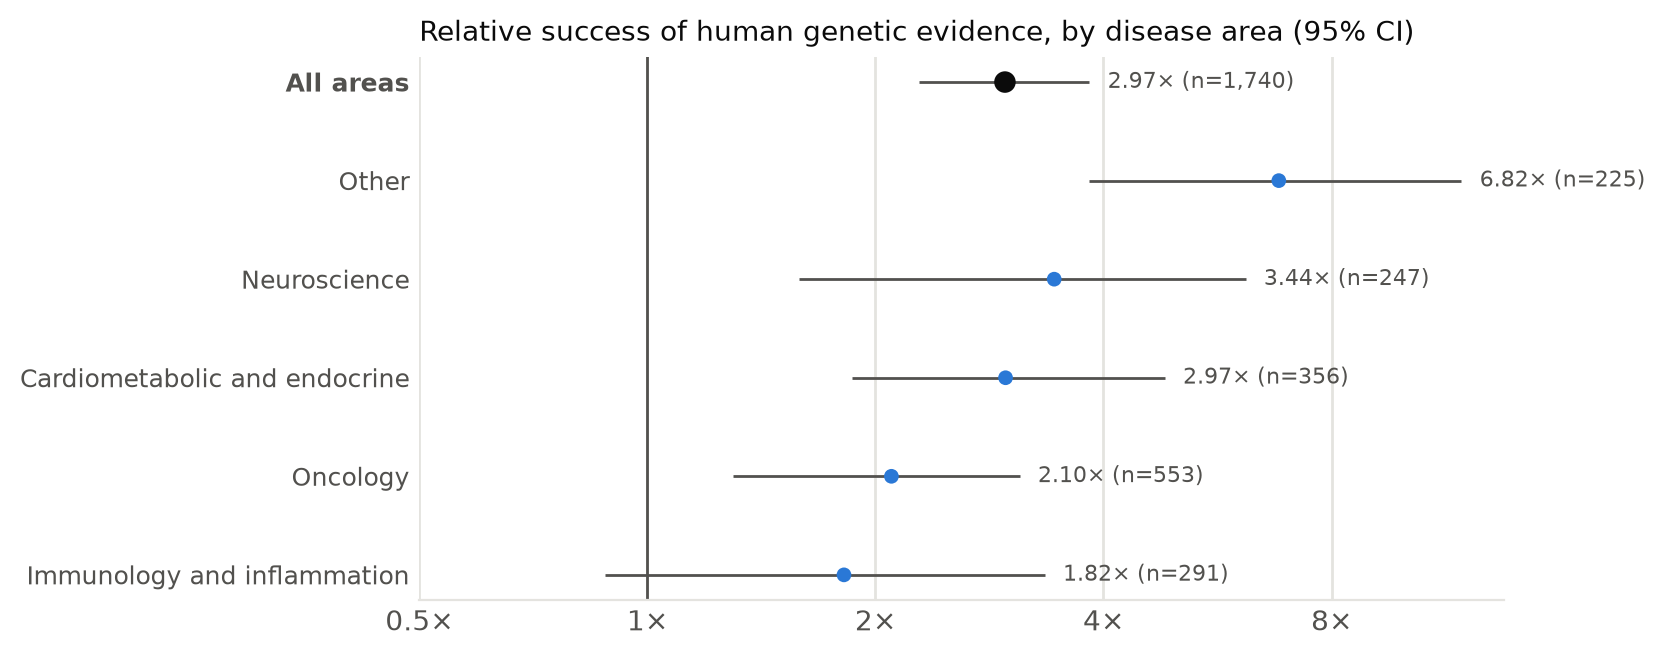
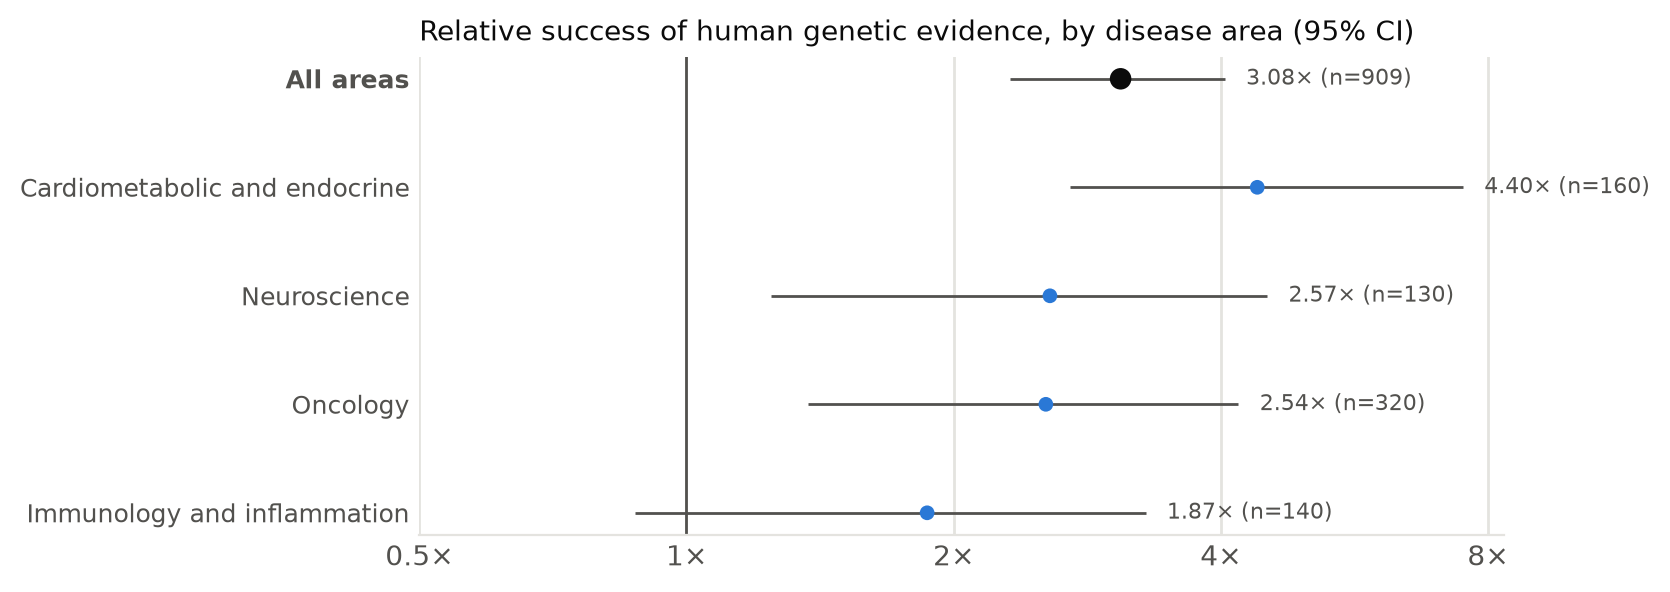
Rerun the disease-area breakdown on 2008-2019; publish
#68's breakdown now runs on the report window: its Phase 2 interaction model
uses the shared period bins, and its test's synthetic entries fall in 2008-2019.
On the larger cohort genetics' effect no longer differs between area groups
(p = 0.52); the prose says so, and the per-line table moves to the Appendix
detail tab beside the other tables behind figures.

diff --git a/tests/test_area_breakdown.py b/tests/test_area_breakdown.py
@@ -16,7 +16,7 @@ def synthetic_rows(seed: int = 0) -> pd.DataFrame:
             for phase in (1, 2, 3):
                 p = min(0.9, 0.2 * (effect if genetic and phase == 2 else 1.0)) if phase == 2 else 0.6
                 rows.append({"program_id": f"{area}-{i}", "phase": phase, "target": target, "bio_area": area,
-                             "modality": "small_molecule", "novel": int(i % 2), "entry_year": 2015 + i % 10,
+                             "modality": "small_molecule", "novel": int(i % 2), "entry_year": 2008 + i % 12,
                              "event": "advanced" if rng.random() < p else "suspended",
                              **{f: 0.0 for f in AREA_LINES}, "genetic_any": float(genetic)})
     return pd.DataFrame(rows)

diff --git a/report/narrative/section2_area.md b/report/narrative/section2_area.md
@@ -1,3 +1,3 @@
-Human genetic evidence predicts approval in every group of disease areas where it can be measured, but not equally: whether its effect at Phase 2 differs between groups gives p = {{section2.area.tests.genetic_any.p|x2}}. It is strongest in the smaller areas pooled as "other" (ophthalmology, infectious disease, urology and the diseases outside the named areas, mostly kidney, skin and rare hereditary disorders), where programs with it reached approval {{section2.area.rs.other_genetic_any.rs|x2}} times as often ({{section2.area.rs.other_genetic_any.loa_with|pct}} against {{section2.area.rs.other_genetic_any.loa_without|pct}}), and in neuroscience ({{section2.area.rs.neuroscience_genetic_any.rs|x2}}, carried by rare-variant evidence at {{section2.area.rs.neuroscience_genetic_rare.rs|x2}}). It is about threefold in cardiometabolic and endocrine diseases ({{section2.area.rs.cardiometabolic_genetic_any.rs|x2}}), twofold in oncology ({{section2.area.rs.oncology_genetic_any.rs|x2}}), and weakest in immunology and inflammation ({{section2.area.rs.immunology_genetic_any.rs|x2}}, {{section2.area.rs.immunology_genetic_any.rs_lo|x2}}–{{section2.area.rs.immunology_genetic_any.rs_hi|x2}}), where most of the evidence is GWAS. Hematology has too few programs with genetic evidence ({{section2.area.rs.hematology_genetic_any.n_with|int}}) to estimate.
+Human genetic evidence predicts approval in every area group with enough programs to measure it, and its effect does not differ measurably between them (p = {{section2.area.tests.genetic_any.p|x2}} for the difference at Phase 2). It is largest in cardiometabolic and endocrine diseases ({{section2.area.rs.cardiometabolic_genetic_any.rs|x2}}×, {{section2.area.rs.cardiometabolic_genetic_any.loa_with|pct0}} against {{section2.area.rs.cardiometabolic_genetic_any.loa_without|pct0}}), about 2.5-fold in oncology ({{section2.area.rs.oncology_genetic_any.rs|x2}}×) and neuroscience ({{section2.area.rs.neuroscience_genetic_any.rs|x2}}×), and least clear in immunology and inflammation ({{section2.area.rs.immunology_genetic_any.rs|x2}}×, {{section2.area.rs.immunology_genetic_any.rs_lo|x2}}–{{section2.area.rs.immunology_genetic_any.rs_hi|x2}}), where much of the evidence is GWAS. Hematology and the other areas have too few genetically supported programs to estimate. Leaving out any one group keeps the pooled relative success between {{section2.area.loo_min.rs|x2}} and {{section2.area.loo_max|x2}}.
 
-No other line's effect measurably differs between groups. In oncology, a somatic driver gives {{section2.area.rs.oncology_somatic.rs|x2}} ({{section2.area.rs.oncology_somatic.rs_lo|x2}}–{{section2.area.rs.oncology_somatic.rs_hi|x2}}). A potent drug gives {{section2.area.rs.other_assay_potent.rs|x2}} in the "other" group and {{section2.area.rs.neuroscience_assay_potent.rs|x2}} in neuroscience, but the groups do not differ beyond chance (p = {{section2.area.tests.assay_potent.p|x2}}). Leaving out any one group moves the pooled relative success of human genetics between {{section2.area.loo_min.rs|x2}} and {{section2.area.loo_max|x2}}; it is lowest without the "other" group, so no single area carries the pooled result.
+Somatic drivers give {{section2.area.rs.oncology_somatic.rs|x2}}× in oncology. Mouse models help in cardiometabolic disease ({{section2.area.rs.cardiometabolic_animal_model.rs|x2}}×) and immunology ({{section2.area.rs.immunology_animal_model.rs|x2}}×) but not in oncology ({{section2.area.rs.oncology_animal_model.rs|x2}}×). Expression in the disease is the one line whose effect differs between groups (p = {{section2.area.tests.rna_expression.p|x2}}), going the wrong way in immunology ({{section2.area.rs.immunology_rna_expression.rs|x2}}×); with three groups tested and a borderline p, this is a lead, not a finding.

diff --git a/REPORT.md b/REPORT.md
@@ -118,7 +118,12 @@ Held against the others, rare-variant and Mendelian evidence keeps an independen
 
 ### By disease area
 
-*Pending: whether each line predicts equally well in oncology, immunology, neuroscience, cardiometabolic disease, hematology and other areas, rerun on 2008–2019 entries with efficacy stops as a second outcome.*
+![Relative success of human genetic evidence by disease area](report/output/figures/genetics_by_area.png)
+
+Human genetic evidence predicts approval in every area group with enough programs to measure it, and its effect does not differ measurably between them (p = 0.52 for the difference at Phase 2). It is largest in cardiometabolic and endocrine diseases (4.40×, 26% against 6%), about 2.5-fold in oncology (2.54×) and neuroscience (2.57×), and least clear in immunology and inflammation (1.87×, 0.87–3.29), where much of the evidence is GWAS. Hematology and the other areas have too few genetically supported programs to estimate. Leaving out any one group keeps the pooled relative success between 2.90 and 3.33.
+
+Somatic drivers give 2.43× in oncology. Mouse models help in cardiometabolic disease (1.73×) and immunology (1.82×) but not in oncology (1.16×). Expression in the disease is the one line whose effect differs between groups (p = 0.05), going the wrong way in immunology (0.53×); with three groups tested and a borderline p, this is a lead, not a finding.
+
 
 ### The drug's own pharmacology
 
@@ -412,6 +417,8 @@ Each entity is matched to its ChEMBL molecules by the first of three routes that
 Sources that encode clinical outcomes or literature co-mention (ChEMBL clinical precedence, Europe PMC) are not used.
 
 **Relative success.** The 95% intervals resample primary-target sets (an entity's primary targets taken together), since programs on the same targets are not independent.
+
+**By disease area.** The 15 disease areas are pooled into six groups so that each holds enough programs with an evidence line: oncology; immunology and inflammation (autoimmune, allergy, respiratory, gastroenterology); neuroscience (neurology, psychiatry); cardiometabolic and endocrine (cardiovascular, metabolic, endocrine); hematology; and every other area. Relative success within a group is estimated as for all programs, and left blank where fewer than 100 programs in the group carry the line. Whether a line's effect differs between groups is a joint Wald test of its interaction with the group in a modified Poisson model of advancing from Phase 2, adjusted for modality, novelty and entry period, with standard errors clustered by primary-target set; groups with fewer than 20 resolved Phase 2 programs carrying the line are left out of that test.
 
 **Adjusted relative risks.** The joint table comes from one modified Poisson model per phase containing every evidence line together with disease area, modality, entity novelty and entry period, with standard errors clustered by primary-target set.
 

diff --git a/REPORT_APPENDIX.md b/REPORT_APPENDIX.md
@@ -105,6 +105,18 @@ Efficacy and exposure stops by what the evidence shows about target engagement, 
 | 0.61–0.89 (middle third) | 249 | 139 | 24.7% (15.4–34.0) |
 | above 0.89 (highest third) | 285 | 148 | 30.2% (23.1–38.1) |
 
+### Relative success by disease area
+
+| Evidence line | Oncology | Immunology and inflammation | Other | Neuroscience | Cardiometabolic and endocrine | Hematology | Differs between groups, Phase 2 (p) |
+| :---- | :---- | :---- | :---- | :---- | :---- | :---- | :---- |
+| Any human genetics | 2.54 (1.37–4.19), n=320 | 1.87 (0.87–3.29), n=140 | –, n=98 | 2.57 (1.25–4.51), n=130 | 4.40 (2.70–7.50), n=160 | –, n=61 | 0.52 (6 groups) |
+| GWAS | –, n=68 | –, n=81 | –, n=48 | –, n=28 | –, n=40 | –, n=0 | 0.92 (3 groups) |
+| Rare-variant or Mendelian genetics | 2.70 (1.43–4.41), n=274 | –, n=61 | –, n=60 | 2.57 (1.28–4.43), n=114 | 4.34 (2.60–7.51), n=140 | –, n=61 | 0.51 (6 groups) |
+| Somatic cancer driver | 2.43 (1.36–4.44), n=1,176 | –, n=3 | –, n=6 | –, n=1 | –, n=8 | –, n=2 | – |
+| Mouse model | 1.16 (0.61–1.91), n=456 | 1.82 (1.08–3.05), n=244 | 1.16 (0.49–2.25), n=198 | 1.71 (0.95–2.92), n=270 | 1.73 (1.04–2.85), n=433 | –, n=98 | 0.82 (6 groups) |
+| Expressed differently in the disease | 1.11 (0.63–1.84), n=739 | 0.53 (0.10–1.04), n=166 | –, n=35 | –, n=65 | –, n=8 | –, n=0 | 0.05 (3 groups) |
+| Potent at the target (100 nM or better) | 1.19 (0.65–2.12), n=918 | 1.52 (0.78–2.63), n=202 | 2.04 (1.01–3.57), n=252 | 0.68 (0.30–1.24), n=251 | 1.03 (0.53–1.77), n=163 | –, n=26 | 0.57 (5 groups) |
+
 ### What each line adds once the others are known
 
 | Evidence | Phase 1 → 2 | Phase 2 → 3 | Phase 3 → approval |

diff --git a/report/narrative/section2.md b/report/narrative/section2.md
@@ -26,8 +26,6 @@ The evidence lines overlap, so the figure holds the other lines, disease area, m
 
 ### By disease area
 
-{{AREA_RS_TABLE}}
-
 ![Relative success of human genetic evidence by disease area](report/output/figures/genetics_by_area.png)
 
 {{SECTION2_AREA}}

diff --git a/report/APPENDIX.template.md b/report/APPENDIX.template.md
@@ -36,6 +36,10 @@ Efficacy and exposure stops by what the evidence shows about target engagement, 
 
 {{DOSE_TABLE}}
 
+### Relative success by disease area
+
+{{AREA_RS_TABLE}}
+
 ### What each line adds once the others are known
 
 {{JOINT_TABLE}}
